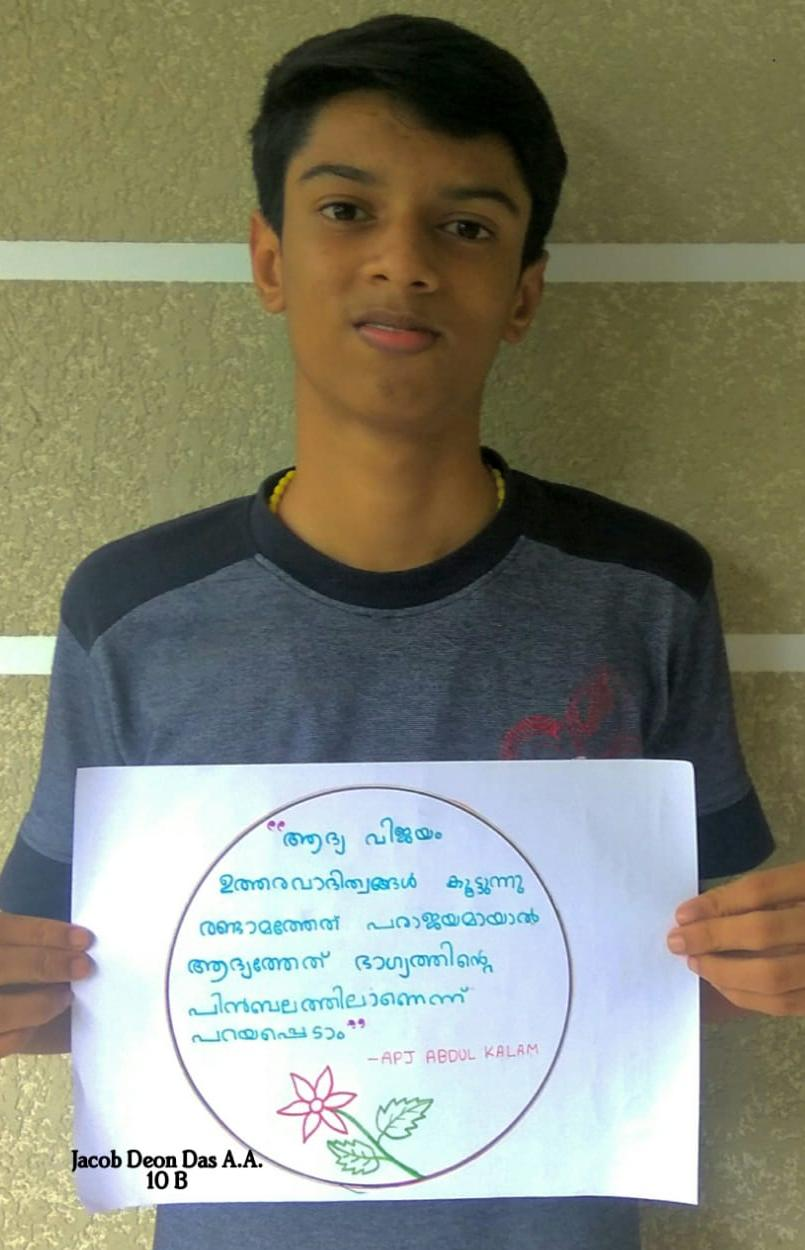
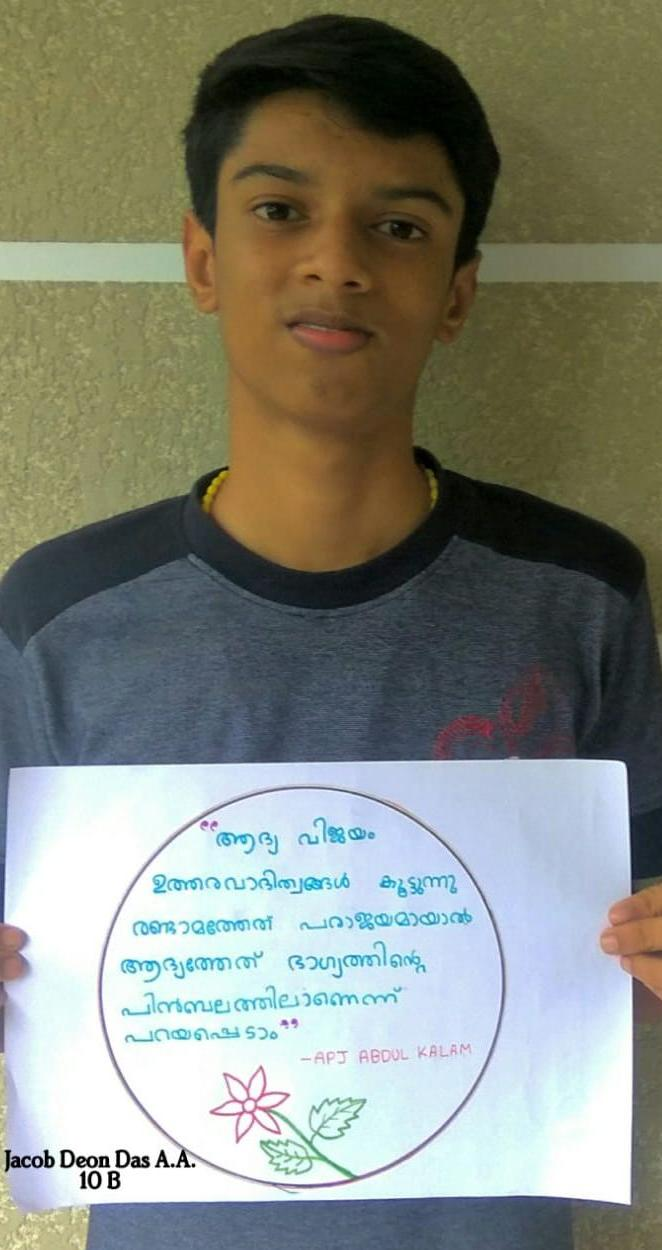
refs #7 crop changes done commit

diff --git a/css/styles.css b/css/styles.css
@@ -1,6 +1,6 @@
 body {
   font-family: 'Montserrat', sans-serif;
-    background-color: #ff4c68;
+    background-color: #ffa0a0;
 }
 
 h2 {
@@ -103,6 +103,9 @@ p {
 .testimonial-image {
   width: 100%;
   margin: 20px 20px 0;
+  border: solid;
+  border-width: 5%;
+  border-color: black;
 }
 
 /* press */
